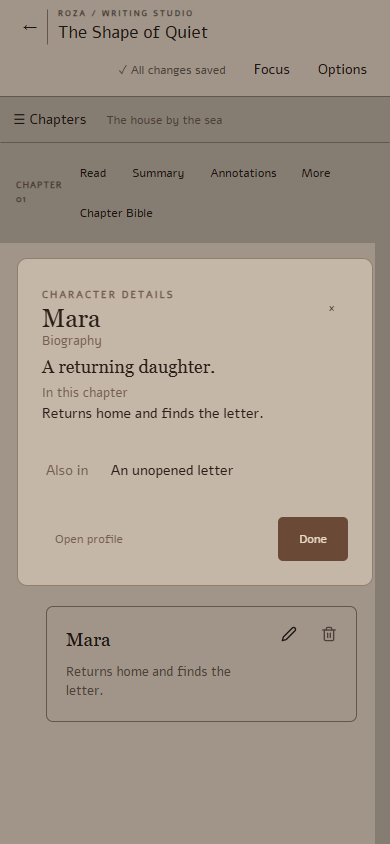
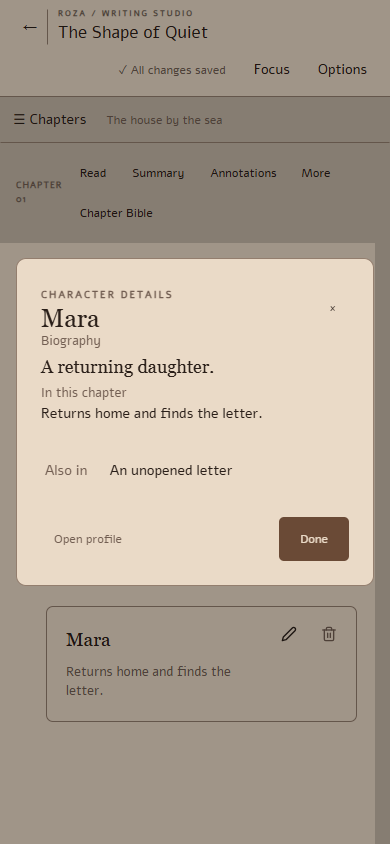
Constrain entity dialogs and preserve manuscript paper background

diff --git a/frontend/src/components/WritingStudio/chapterPlanning.css b/frontend/src/components/WritingStudio/chapterPlanning.css
@@ -474,7 +474,7 @@
   align-items: center;
   gap: 7px;
 }
-.cp-link-dialog {
+dialog.ws.cp-link-dialog {
   width: min(500px, calc(100vw - 32px));
   max-height: 85dvh;
   margin: auto;
@@ -575,8 +575,10 @@
 .cp-elements-characters .cp-element-open {
   grid-template-columns: minmax(0, 1fr);
 }
-.cp-entity-dialog {
-  width: min(720px, calc(100vw - 32px));
+dialog.ws.cp-entity-dialog {
+  width: min(560px, calc(100vw - 32px));
+  max-width: 560px;
+  background: var(--ws-paper);
   overflow-y: auto;
 }
 .cp-entity-dialog fieldset {
